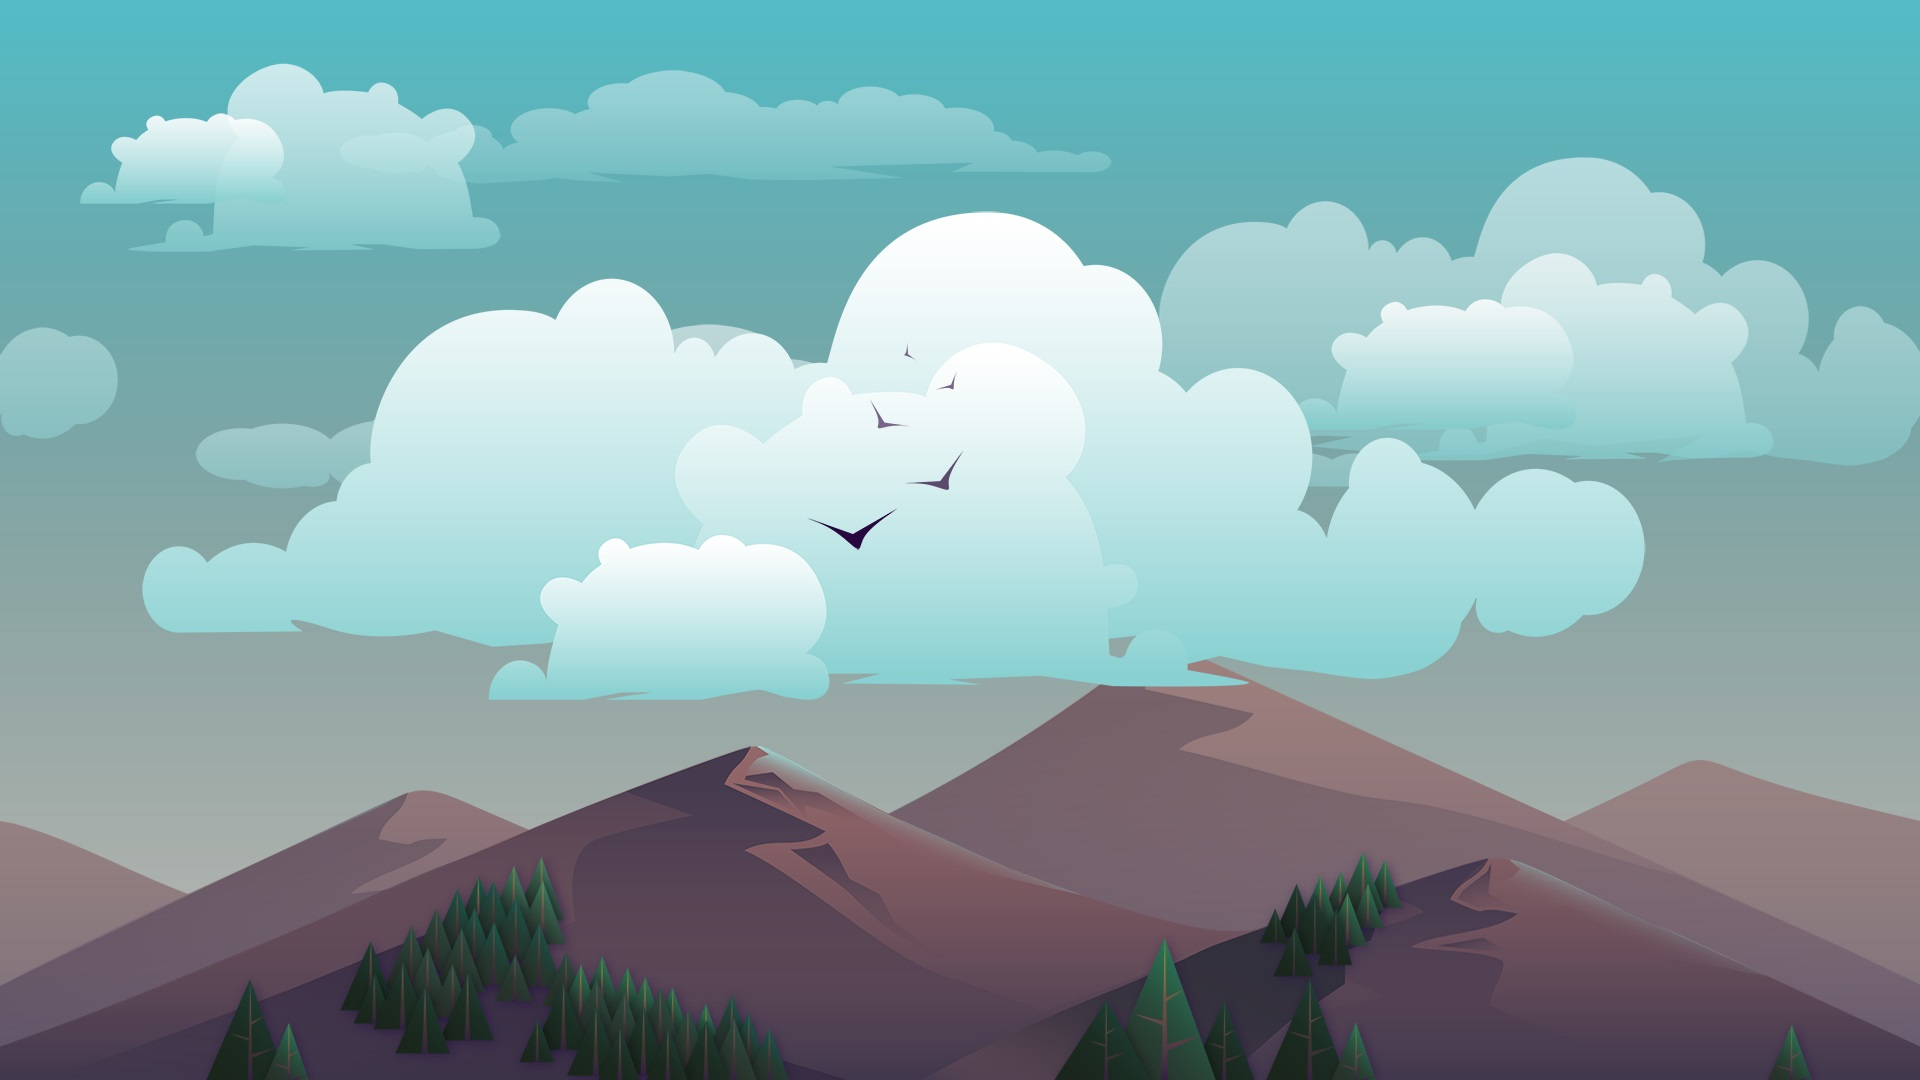
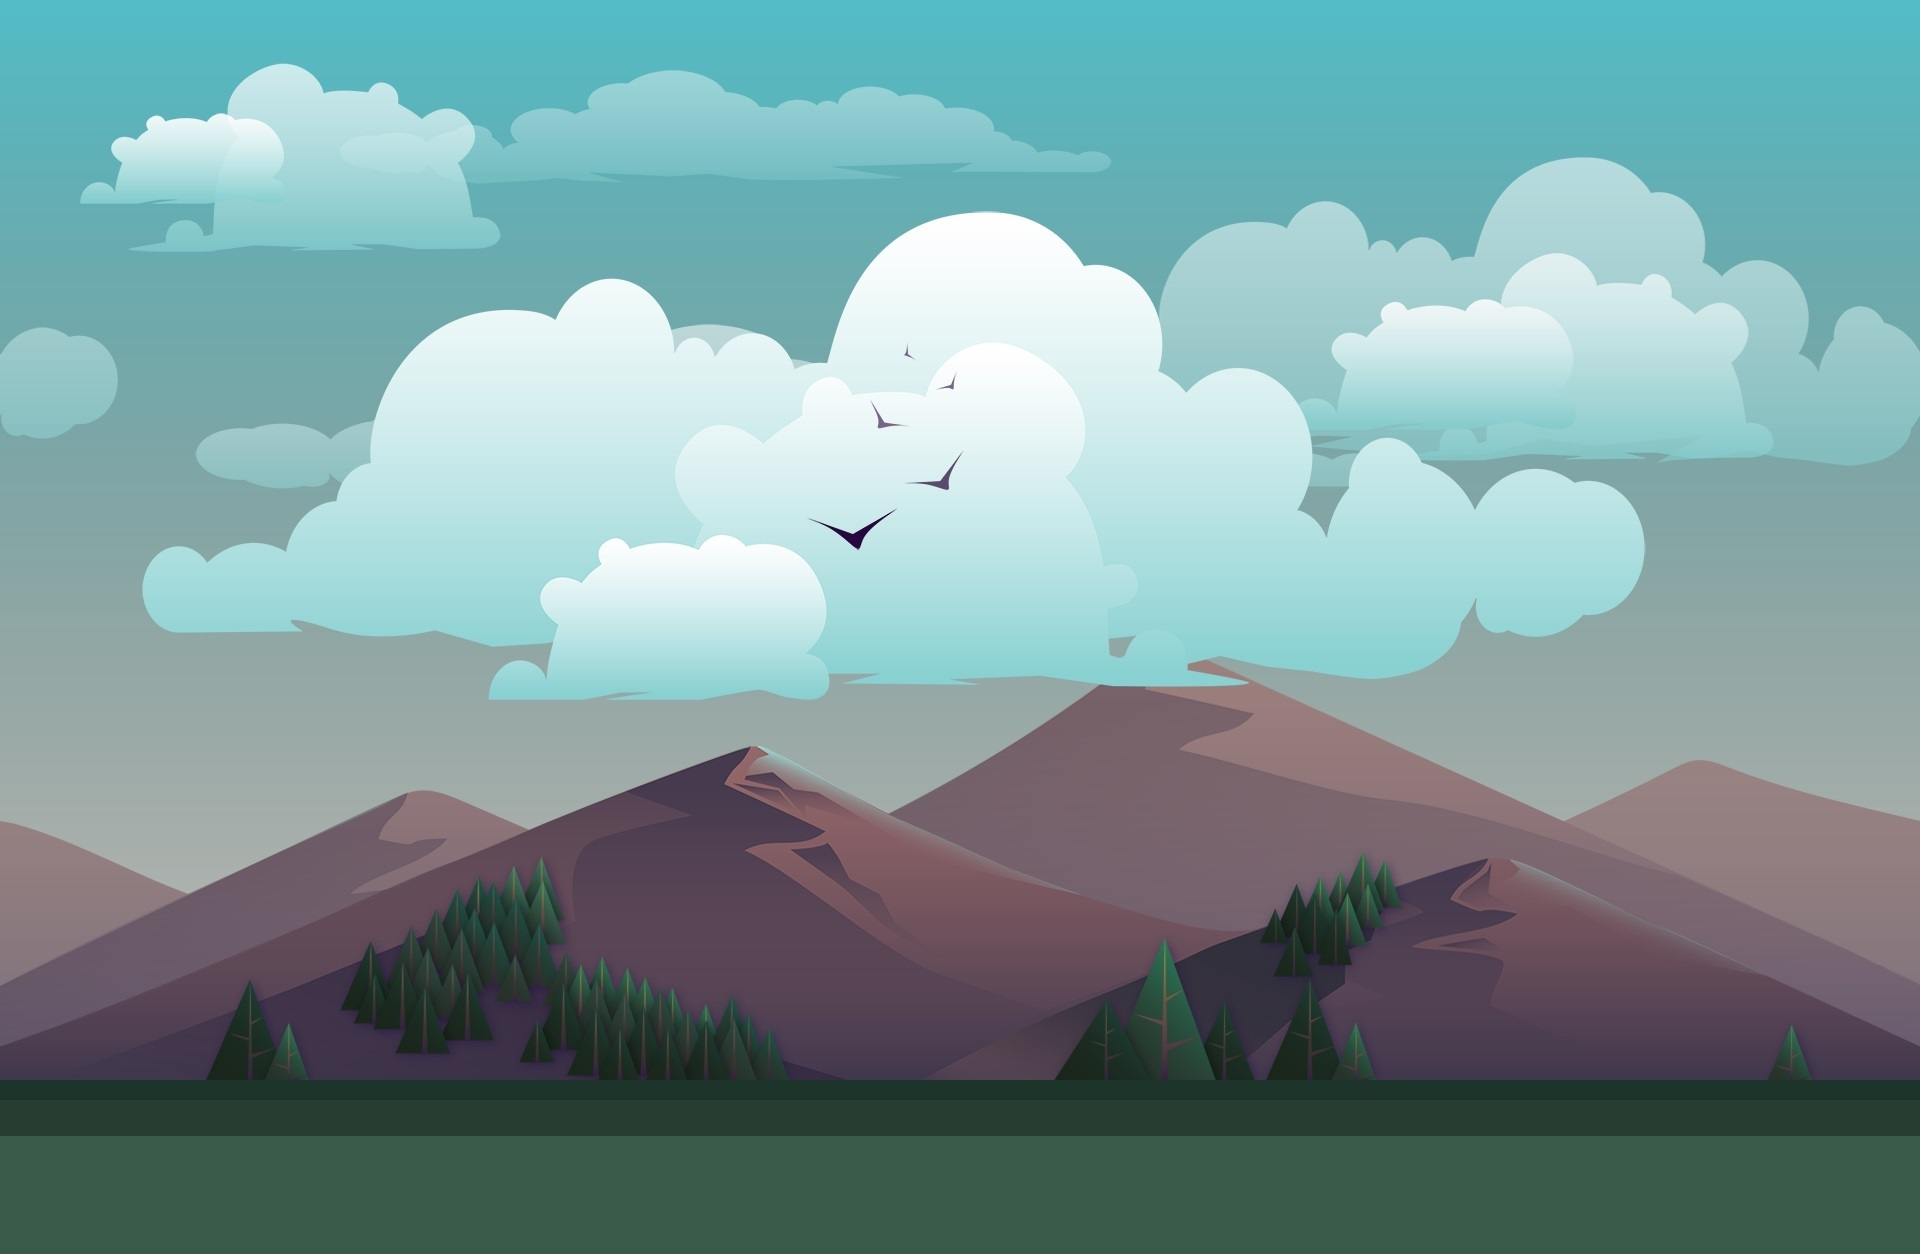
added cactus

diff --git a/sprites.py b/sprites.py
@@ -20,20 +20,19 @@ class Player(pg.sprite.Sprite):
     def __init__(self, game):
         pg.sprite.Sprite.__init__(self)
         self.game = game
-        self.walking = False
-        self.jumping = False
+        self.state = 'idle'
         self.current_frame = 0
         self.last_update = 0
         self.load_images()
         self.image = self.standing_frames[0]
         self.rect = self.image.get_rect()
-        self.rect.center = (60, HEIGHT - 115)
+        self.rect.midbottom = (60, HEIGHT - 115)
         self.pos = vec(60, HEIGHT - 115)
         self.vel = vec(0, 0)
         self.acc = vec(0, 0)
 
     def load_images(self):
-        self.standing_frames = [self.game.spritesheet2.get_image(0, 236, 215, 210),
+        self.standing_frames = [self.game.spritesheet2.get_image(0, 0, 215, 210),
                                 self.game.spritesheet2.get_image(340, 0, 215, 210)]
         for frame in self.standing_frames:
             frame.set_colorkey(BLACK)
@@ -43,16 +42,15 @@ class Player(pg.sprite.Sprite):
         for frame in self.walk_frames_r:
             frame.set_colorkey(BLACK)
             self.walk_frames_l.append(pg.transform.flip(frame, True, False))
-        self.jump_frame = self.game.spritesheet2.get_image(340, 236, 215, 210)
-        self.jump_frame.set_colorkey(BLACK)
+        self.jump_frames = [self.game.spritesheet2.get_image(0, 236, 215, 210),
+                            self.game.spritesheet2.get_image(340, 236, 215, 210)]
+        for frame in self.jump_frames:
+            frame.set_colorkey(BLACK)
 
 
     def jump(self):
         # jump only if standing on a platform
-        self.rect.y += 10
-        hits = pg.sprite.spritecollide(self, self.game.platforms, False)
-        self.rect.y -= 10
-        if hits:
+        if self.pos.y == HEIGHT - 115:
             self.vel.y = -PLAYER_JUMP
 
     def update(self):
@@ -76,23 +74,26 @@ class Player(pg.sprite.Sprite):
         self.pos.y += self.vel.y + 0.5 * self.acc.y
         self.rect.midbottom = self.pos
 
-        # Moves the platforms in reverse of the player
-        for plat in self.game.platforms:
-            plat.rect.x -= (self.vel.x + 0.5 * self.acc.x)
         # Move background
-        #self.game.background.rect.x -= (self.vel.x + 0.5 * self.acc.x)
+        delta = self.vel.x + 0.5 * self.acc.x
+        self.game.background.rect.x -= delta
+        self.game.background2.rect.x = self.game.background.rect.right 
         
-        #self.game.right_platform-= (self.vel.x + 0.5 * self.acc.x)
-
+        # Move obstacles
+        for obs in self.game.obstacles:
+            obs.rect.x -= delta
         
     def animate(self):
         now = pg.time.get_ticks()
         if self.vel.x != 0:
-            self.walking = True
+            if self.pos.y < HEIGHT - 115:
+                self.state = 'jumping'
+            else:
+                self.state = 'walking'
         else:
-            self.walking = False
+            self.state = 'idle'
         # show walk animation
-        if self.walking:
+        if self.state == 'walking':
             if now - self.last_update > 180:
                 self.last_update = now
                 self.current_frame = (self.current_frame + 1) % len(self.walk_frames_l)
@@ -103,8 +104,16 @@ class Player(pg.sprite.Sprite):
                     self.image = self.walk_frames_l[self.current_frame]
                 self.rect = self.image.get_rect()
                 self.rect.bottom = bottom
+        elif self.state == 'jumping':
+            if now - self.last_update > 180:
+                self.last_update = now
+                self.current_frame = (self.current_frame + 1) % len(self.walk_frames_l)
+                bottom = self.rect.bottom
+                self.image = self.jump_frames[self.current_frame]
+                self.rect = self.image.get_rect()
+                self.rect.bottom = bottom
         # show idle animation
-        if not self.jumping and not self.walking:
+        else: #self.state == 'idle':
             if now - self.last_update > 350:
                 self.last_update = now
                 self.current_frame = (self.current_frame + 1) % len(self.standing_frames)
@@ -113,26 +122,28 @@ class Player(pg.sprite.Sprite):
                 self.rect = self.image.get_rect()
                 self.rect.bottom = bottom
 
-class Platform(pg.sprite.Sprite):
-    def __init__(self, game, x, y):
+
+
+class Background(pg.sprite.Sprite):
+    def __init__(self, game,x=0):
         pg.sprite.Sprite.__init__(self)
         self.game = game
-        sc = 1.2
-        images = [self.game.spritesheet.get_image(0, 0, 315, 90,sc)]
+        sc = 6/9
+        self.image = self.game.spritesheet3.get_image(0, 174, 1920, 1080,sc)
+                  #self.game.spritesheet.get_image(0, 95, 315, 90,sc)]
+        self.image.set_colorkey(BLACK)
+        self.rect = self.image.get_rect()
+        self.rect.x = x
+
+class Obstacle(pg.sprite.Sprite):
+    def __init__(self, game, x,y=HEIGHT-200):
+        pg.sprite.Sprite.__init__(self)
+        self.game = game
+        sc = 0.3
+        images = [self.game.spritesheet1.get_image(0, 0, 172, 277,sc)]
                   #self.game.spritesheet.get_image(0, 95, 315, 90,sc)]
         self.image = choice(images)
         self.image.set_colorkey(BLACK)
         self.rect = self.image.get_rect()
         self.rect.x = x
         self.rect.y = y
-
-
-class Background(pg.sprite.Sprite):
-    def __init__(self, game):
-        pg.sprite.Sprite.__init__(self)
-        self.game = game
-        sc = 6/9
-        self.image = self.game.spritesheet3.get_image(0, 0, 1920, 1080,sc)
-                  #self.game.spritesheet.get_image(0, 95, 315, 90,sc)]
-        self.image.set_colorkey(BLACK)
-        self.rect = self.image.get_rect()

diff --git a/main.py b/main.py
@@ -31,41 +31,40 @@ class Game:
                 self.highscore = int(f.read())
             except:
                 self.highscore = 0
+        # load obstacles
+        self.spritesheet1 = Spritesheet(path.join(img_dir, OBSTACLES))
         # load background
         self.spritesheet3 = Spritesheet(path.join(img_dir, BACKGROUND))
-        # load base sprite
-        self.spritesheet = Spritesheet(path.join(img_dir, SPRITESHEET))
         # load player sprite
-        self.spritesheet2 = Spritesheet(path.join(img_dir, SPRITESHEET2))
+        self.spritesheet2 = Spritesheet(path.join(img_dir, PLAYER))
+
 
     def new(self):
         # start a new game
         self.score = 0
         self.all_sprites = pg.sprite.Group()
         
-        
-        self.platforms = pg.sprite.Group()
+
         self.player = Player(self)
         self.all_sprites.add(self.player)
+        self.obstacles = pg.sprite.Group()
         
-        # Adding platform
-        platform_full=False
-        px = 0
-        while not platform_full:
-            p = Platform(self, px,0)
-            p.rect.y = HEIGHT - p.rect.height + 5
-            px = p.rect.right
+        # Adding obstacles
+        px = WIDTH//2 + random.randrange(1, WIDTH//4)
+        while px < WIDTH:
+            p = Obstacle(self, px)
+            print(px)
+            self.obstacles.add(p)
             self.all_sprites.add(p)
-            self.platforms.add(p)
-            if px >= WIDTH + p.rect.width:
-                platform_full = True
-                #print(px//p.rect.width)
-                self.total_platforms = px//p.rect.width
-                self.right_platform = p.rect.right
-                #print(self.right_platform)
-
+            px = p.rect.left + 150 
+            if px < WIDTH:
+                px = random.randrange(px, WIDTH)
+            
         self.background = Background(self)
         self.all_sprites.add(self.background)
+        self.background2 = Background(self,WIDTH)
+        self.all_sprites.add(self.background2)
+
         self.run()
 
     def run(self):
@@ -82,38 +81,37 @@ class Game:
         self.all_sprites.update()
         # check if player hits a platform - only if falling
         if self.player.vel.y > 0:
-            hits = pg.sprite.spritecollide(self.player, self.platforms, False)
-            if hits:
-                self.player.pos.y = hits[0].rect.top
+            if self.player.pos.y > HEIGHT - 115:
+                self.player.pos.y = HEIGHT - 115
                 self.player.vel.y = 0
 
-        # if platform leaves the screen
-        for plat in self.platforms:
-            #plat.rect.x -= max(abs(self.player.vel.x), 2)
-            if plat.rect.right <= 0:
-                self.right_platform += plat.rect.left 
-                print('destroyed!',self.right_platform)
-                plat.kill()
-                self.score += 10
+        # create new obstacles
+        for obs in self.obstacles:
+            if obs.rect.left < -50:
+                obs.kill()
+                px = WIDTH + random.randrange(1, WIDTH//2)
+                p = Obstacle(self, px)
+                print(px)
+                self.obstacles.add(p)
+                self.all_sprites.add(p)
+
+        if self.background.rect.right < 0:
+            self.background.kill()
+            # Swap background
+            self.background = self.background2
+            # New background
+            self.background2 = Background(self,self.background.rect.left)
+            # Adds to the group of sprites
+            self.all_sprites.add(self.background2)
+
+
 
         # Die!
-        if self.player.rect.bottom > HEIGHT:
+        hits = pg.sprite.spritecollide(self.player, self.obstacles, False)
+        if hits:
             for sprite in self.all_sprites:
-                sprite.rect.y -= max(self.player.vel.y, 10)
-                if sprite.rect.bottom < 0:
-                    sprite.kill()
-        if len(self.platforms) == 0:
+                sprite.kill()
             self.playing = False
-
-        # spawn new platforms to keep same average number
-        if len(self.platforms) < self.total_platforms:
-            
-            p = Platform(self, self.right_platform,HEIGHT)
-            p.rect.y -= p.rect.height + 5
-            self.right_platform = p.rect.right
-            #p.rect.x -= p.rect.width
-            self.platforms.add(p)
-            self.all_sprites.add(p)
 
     def events(self):
         # Game Loop - events

diff --git a/settings.py b/settings.py
@@ -5,15 +5,15 @@ HEIGHT = 720
 FPS = 60
 FONT_NAME = 'arial'
 HS_FILE = "highscore.txt"
-SPRITESHEET = "base.png" #"spritesheet_jumper.png"
-SPRITESHEET2 = "dino.jpeg"
+PLAYER = "dino2.png"
 BACKGROUND = 'bg2.jpg'
+OBSTACLES = 'cactus2.png'
 
 # Player properties
 PLAYER_ACC = 0.5
 PLAYER_FRICTION = -0.12
 PLAYER_GRAV = 0.8
-PLAYER_JUMP = 16
+PLAYER_JUMP = 20
 
 # Starting platforms
 #PLATFORM_LIST = [range(6)]
